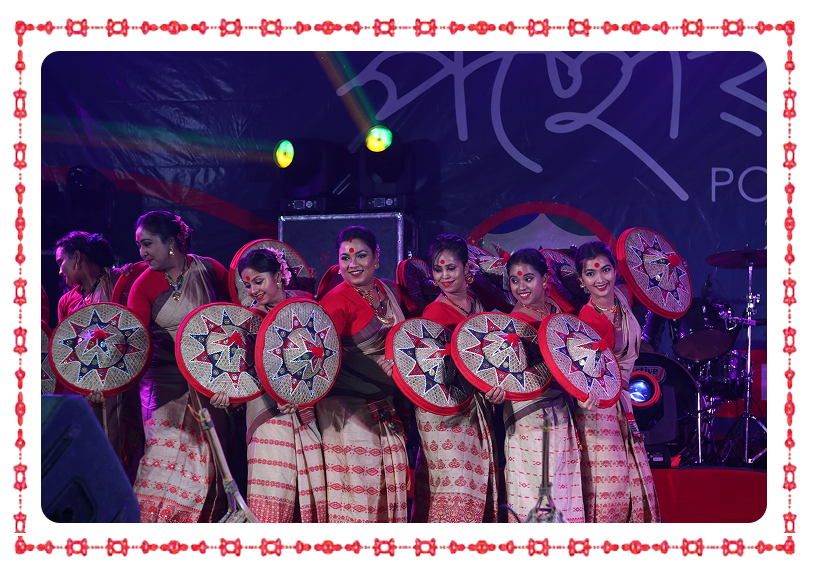
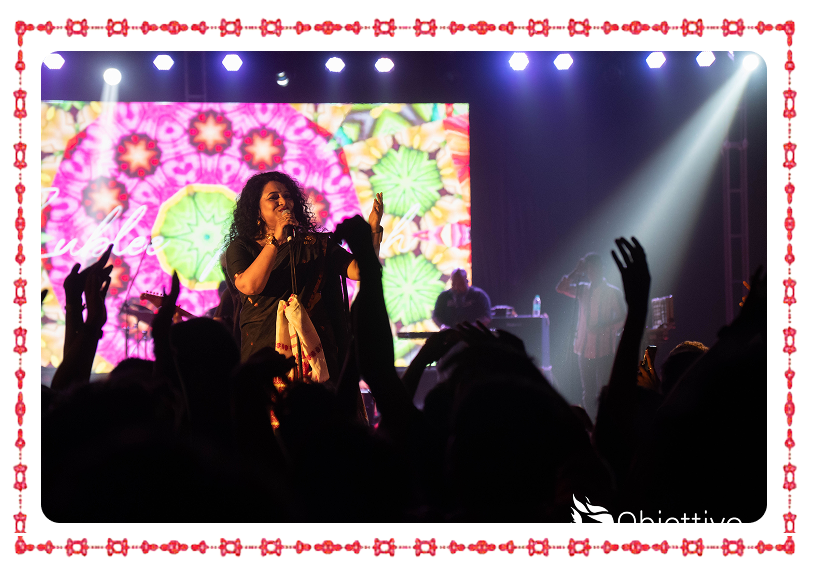
real events images added

diff --git a/app/events/page.tsx b/app/events/page.tsx
@@ -99,7 +99,7 @@ const Event = () => {
         />
 
         <EventSection
-          image="/assets/images/event_section/manthan.png"
+          image="/assets/images/event_section/rongili.png"
           title="Rongili"
           text="From graceful classical moves to electrifying contemporary beats, watch talented dancers set the stage on fire with passion and artistry. Let the music take over as we celebrate culture, creativity, and the joy of movement!"
           reverse
@@ -116,7 +116,7 @@ const Event = () => {
         />
 
         <EventSection
-          image="/assets/images/event_section/manthan.png"
+          image="/assets/images/event_section/patkai.png"
           title="Patkaair lpare"
           text="Challenge yourself with exciting questions on history, pop culture, science, and more. Compete with the brightest minds, win exciting prizes, and prove you've got what it takes to be the ultimate quiz champion!"
         />
@@ -132,9 +132,20 @@ const Event = () => {
         />
 
         <EventSection
-          image="/assets/images/event_section/manthan.png"
-          title="Manthan"
-          text="The highlight of Spring Fest, this electrifying night brings a leading star to captivate the audience with a mesmerizing performance. Over the years, renowned artists have graced our stage, making it a night to remember. Get ready for an unforgettable musical journey!"
+          image="/assets/images/event_section/kristi.png"
+          title="Kristi"
+          text="The festival of Krishti gives a unique chance to see the beauty of time and to feel the complex cultural mix of the people who have lived in this land for ages, creating a splendid society that shows the combination of these different cultures. No matter where we live along the Barak or Brahmaputra rivers, we are all connected by a lovely fabric made of the golden threads of our cultural legacy."
+          reverse
+        />
+        <EventSection
+          image="/assets/images/event_section/bordoisila.png"
+          title="Bordoisila"
+          text="The NITS campus gets alive with captivating performances by the stunning 'Gabhorus', adorned in exquisite golden silk. It resembles the seasonal wind rushing back to her familial abode, bustling with fervor. "
+        />
+        <EventSection
+          image="/assets/images/event_section/abhijatri.png"
+          title="Abhijatri"
+          text="The true measure of our society's strength lies in our ability to embrace diversity and foster unity. Over the years, 'Bor-Axom' has embraced numerous communities and tribes, enriching the tapestry of the Greater Assamese Culture.  "
           reverse
         />
       </div>
